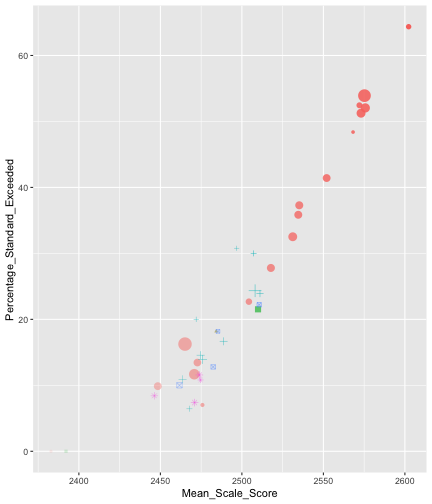
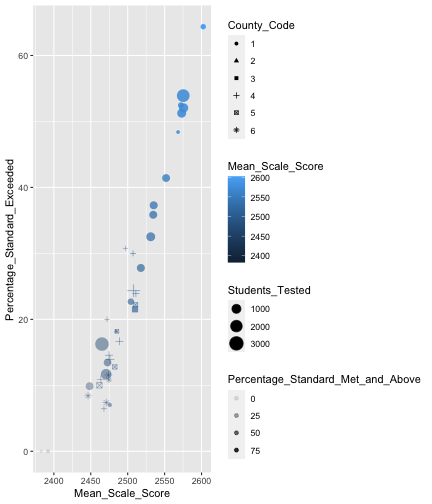
adding notes

diff --git a/ggplot-flipbook.html b/ggplot-flipbook.html
@@ -25,10 +25,28 @@ background-size: cover
 # Demonstration Using ggplot
 ### VISUALIZATION PRINCIPLES IN PRACTICE
 .large[David Dobrowski | Education Data Science Conference | 6 May 2021]
+
+???
+
+David Dobrowski
+
+Monterey County Office of Education
+
+Director of Data Research and Partnerships
+
+
+Welcome
+
+c - clone
+p - presenter mode
+t - timer
+
+
+
 ---
 
 class: inverse, middle, center
-
+name: title
 # References for today
 
 ### Slides: https://ggplot-flipbook.netlify.app/ggplot-flipbook.html 
@@ -36,6 +54,10 @@ class: inverse, middle, center
 &lt;img src="img/qrcode.png" width="20%" /&gt;
 
 ### Github repo: https://github.com/dobrowski/ggplotFlipbook
+
+???
+
+how to find these slides and github repo to play along at home
 
 
 ---
@@ -48,6 +70,16 @@ class: inverse, middle, center
 .small[Barbara Kruger]
 ]
 
+???
+
+Poll - how familiar are you with R and ggplot? 
+- Just stayed from the last session and don't feel like moving
+- Have dabbled but it isn't my go to tool
+- I've led this presentation before
+
+In chat, please write a question or something you hope to get out of today.  
+
+
 ---
 # Reasons Why to Graph Data
 
@@ -58,6 +90,11 @@ class: inverse, middle, center
 --
 
 &lt;img src="img/picture-superiority-effect.jpeg" width="100%" /&gt;
+
+
+???
+
+Studies have shown that people remember things better when given a picture in addition to text or numbers
 
 
 ---
@@ -73,6 +110,11 @@ class: inverse, middle, center
 .right[
 .small[https://www.autodesk.com/research/publications/same-stats-different-graphs]
 ]]
+
+
+???
+
+Displaying visually allows use to see patterns we wouldn't neccesarily get from summary statistics
 
 
 ---
@@ -100,6 +142,9 @@ class: inverse, middle, center
 
 ## geom 
 
+???
+
+These are the three components to creating a graph in ggplot, and arguable the grammar of graphing in any way even if not explicitly laid out.
 
 
 ---
@@ -153,6 +198,11 @@ https://socviz.co/index.html
 ]
 
 
+???
+
+These are building block of constructing a graph. Different ways to encode meaning, variables and data into geometric features. 
+
+
 ---
 class: middle, center
 
@@ -167,6 +217,8 @@ https://socviz.co/index.html
 
 
 ---
+
+name: scatter
 
 count: false
  
@@ -1016,7 +1068,7 @@ ggplot() +
   aes(color = County_Code ) +
   aes(size = Students_Tested) +
   aes(alpha = Percentage_Standard_Met_and_Above) +
-* theme(legend.position = "none")
+* aes(color = Mean_Scale_Score)
 ```
 ]
  
@@ -1042,12 +1094,40 @@ ggplot() +
   aes(color = County_Code ) +
   aes(size = Students_Tested) +
   aes(alpha = Percentage_Standard_Met_and_Above) +
-  theme(legend.position = "none")
+  aes(color = Mean_Scale_Score) +
+* theme(legend.position = "none")
 ```
 ]
  
 .panel2-intro-auto[
 ![](ggplot-flipbook_files/figure-html/intro_auto_11_output-1.png)&lt;!-- --&gt;
+]
+
+---
+count: false
+ 
+
+.panel1-intro-auto[
+
+```r
+# Comparing Percent Exceeded and Scale Score
+
+caaspp %&gt;%
+ggplot() +
+  aes(y = Percentage_Standard_Exceeded) +
+  aes(x = Mean_Scale_Score)  +
+  geom_point() +
+  aes(shape = County_Code ) +
+  aes(color = County_Code ) +
+  aes(size = Students_Tested) +
+  aes(alpha = Percentage_Standard_Met_and_Above) +
+  aes(color = Mean_Scale_Score) +
+  theme(legend.position = "none")
+```
+]
+ 
+.panel2-intro-auto[
+![](ggplot-flipbook_files/figure-html/intro_auto_12_output-1.png)&lt;!-- --&gt;
 ]
 
 &lt;style&gt;
@@ -1113,7 +1193,13 @@ ggplot() +
 ]
 
 
+???
+
+We can go back to those there components that we discussed earlier and see how they were actualized in the graph we just made.  
+
 ---
+
+name:barchart
 
 count: false
  
@@ -1811,6 +1897,8 @@ susp.green %&gt;%
 
 ---
 
+name: line
+
 count: false
  
 
@@ -2452,7 +2540,16 @@ susp.green %&gt;%
 - Others can reproduce your steps
 
 
+???
+
+Image you made a graph that you liked.  Now imagine you have to do it for every school in your district or every school in the county.  Now for superintendent wants you to change the blue to light blue on every graph.  Now your colleague in San Diego wants to have it done for all of their schools.  
+
+This is the power of using code to create the graphs and adaptability of ggplot. 
+
+
 ---
+
+name: facet
 
 count: false
  
